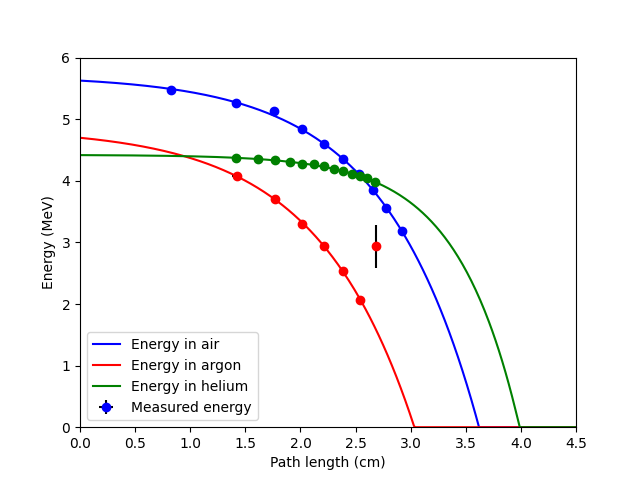
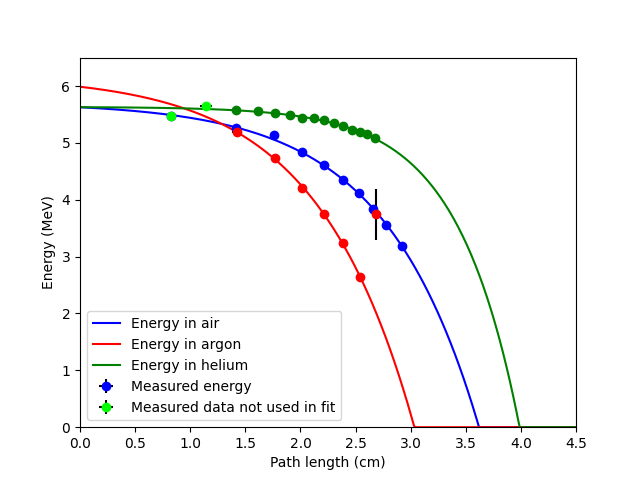
added omitted values and fixed conversion factor for argon and helium

diff --git a/src/alpha/alpha_ray.py b/src/alpha/alpha_ray.py
@@ -20,7 +20,6 @@ python_file_path = os.getcwd()
 
 class Measurement:
 
-    pressure_list = []
     path_length_list = []
     path_length_error = []
 
@@ -59,9 +58,8 @@ class Measurement:
             pressure_end: The pressure of the gas at the end of a measurement in mbar
         """
         # 1/1000 --> pressure to bar
-        self.pressure = self.pressure_mean(pressure_start, pressure_end)/1000 
-        self.pressure_error = self.pressure_err(pressure_start, pressure_end)/1000
-        Measurement.pressure_list.append(self.pressure)
+        self.pressure = self.pressure_mean(pressure_start, pressure_end) / 1000 
+        self.pressure_error = self.pressure_err(pressure_start, pressure_end) / 1000
         Measurement.path_length_list.append(Measurement.pressure_to_path_length(self.pressure))
         Measurement.path_length_error.append(Measurement.path_length_err(pressure=self.pressure, pressure_error=self.pressure_error))
 
@@ -82,7 +80,6 @@ class Measurement:
     def clear(cls):
         """Clears lists to get empty lists for the next gas
         """        
-        cls.pressure_list = []
         cls.path_length_list = []
         cls.path_length_error = []
 
@@ -232,7 +229,7 @@ class Measurement:
         plt.plot(cls.path_length_continuous, cls.energy_continuous, 'g', label=f'E(x) = c - a*b^x')
         plt.plot(cls.path_length_list, cls.result_energy.best_fit, 'r', label=f'Energy fit in measured range')
         plt.xlim(0,4.5)
-        plt.ylim(0,6)
+        plt.ylim(0,6.5)
         plt.xlabel('Path length (cm)')
         plt.ylabel('Energy (MeV)')
         plt.legend(loc='lower left')
@@ -381,8 +378,11 @@ class Measurement:
         plt.errorbar(cls.path_length_gas_data[1], cls.energy_gas_data[1], xerr=cls.path_length_gas_error[1], yerr=cls.energy_gas_error[1], fmt='ro', ecolor='k')
         plt.errorbar(cls.path_length_gas_data[2], cls.energy_gas_data[2], xerr=cls.path_length_gas_error[2], yerr=cls.energy_gas_error[2], fmt='go', ecolor='k')
 
+        # plot omitted data
+        plt.errorbar(cls.path_length_omit, cls.energy_omit, xerr=cls.path_length_error_omit, yerr=cls.energy_error_omit, linestyle='None', marker='o', c='lime', ecolor='black', label='Measured data not used in fit')  
+
         plt.xlim(0, 4.5)
-        plt.ylim(0, 6)
+        plt.ylim(0, 6.5)
         plt.xlabel("Path length (cm)")
         plt.ylabel("Energy (MeV)")
         plt.legend(loc='lower left')
@@ -407,9 +407,8 @@ class Measurement:
         # plot data points
         plt.errorbar(cls.path_length_gas_data[0], cls.stopping_power_gas_data[0], xerr=cls.path_length_gas_error[0] , fmt='bo', ecolor='k', label='Calculated stopping power of measured data')
         plt.errorbar(cls.path_length_gas_data[1], cls.stopping_power_gas_data[1], xerr=cls.path_length_gas_error[1] , fmt='ro', ecolor='k')
-        plt.errorbar(cls.path_length_gas_data[2], cls.stopping_power_gas_data[2], xerr=cls.path_length_gas_error[2] , fmt='go', ecolor='k')        
-
-
+        plt.errorbar(cls.path_length_gas_data[2], cls.stopping_power_gas_data[2], xerr=cls.path_length_gas_error[2] , fmt='go', ecolor='k')
+      
         plt.xlim(0, 4.5)
         plt.ylim(0, 10)
         plt.xlabel("Path length (cm)")
@@ -500,9 +499,11 @@ def measurement_argon():
     argon_start_list = [20, 98, 199, 299, 399, 499, 599, 699]
     argon_end_list = [22, 117, 215, 317, 417, 526, 627, 756]
 
-    # argon_vacuum = Measurement("meting 4- alfa bron argon 21 mbar.csv", end_point=1000, pressure_start = argon_start_list[0], pressure_end=argon_end_list[0])
-    # argon_vacuum.data_fit(start_expmu=0.01, start_gauss1_mu=0.15)
-    # # argon_vacuum.data_plot()
+    argon_vacuum = Measurement("meting 4- alfa bron argon 21 mbar.csv", end_point=1000, pressure_start = argon_start_list[0], pressure_end=argon_end_list[0])
+    argon_vacuum.data_fit(start_expmu=0.01, start_gauss1_mu=0.15)
+
+    # to calculate the conversion factor, but not use this data point in the energy fit
+    Measurement.clear()
 
     argon_100mbar = Measurement("meting 4- alfa bron argon 100 mbar.csv", end_point=1000, pressure_start = argon_start_list[1], pressure_end=argon_end_list[1])
     argon_100mbar.data_fit(start_expmu=0.01, start_gauss1_mu=0.13)
@@ -547,13 +548,21 @@ def measurement_helium():
     helium_start_list = [20, 49, 99, 149, 199, 249, 299, 349, 399, 449, 499, 549, 599, 649, 699]
     helium_end_list = [22, 64, 115, 166, 215, 267, 315, 367, 417, 470, 521, 581, 627, 677, 737]
 
-    # argon_vacuum = Measurement("meting 4- alfa bron argon 21 mbar.csv", end_point=1000, pressure_start = helium_start_list[0], pressure_end=helium_end_list[0])
-    # argon_vacuum.data_fit(start_expmu=0.01, start_gauss1_mu=0.15)
-    # # argon_vacuum.data_plot()
+    argon_vacuum = Measurement("meting 4- alfa bron argon 21 mbar.csv", end_point=1000, pressure_start = helium_start_list[0], pressure_end=helium_end_list[0])
+    argon_vacuum.data_fit(start_expmu=0.01, start_gauss1_mu=0.15)
+    # argon_vacuum.data_plot()
 
-    # helium_50mbar = Measurement("meting 5- alfa bron helium 50 mbar.csv", end_point=1000, pressure_start = helium_start_list[1], pressure_end=helium_end_list[1])
-    # helium_50mbar.data_fit(start_expmu=0.01, start_gauss1_mu=0.15)
-    # # helium_50mbar.data_plot()
+    helium_50mbar = Measurement("meting 5- alfa bron helium 50 mbar.csv", end_point=1000, pressure_start = helium_start_list[1], pressure_end=helium_end_list[1])
+    helium_50mbar.data_fit(start_expmu=0.01, start_gauss1_mu=0.15)
+    # helium_50mbar.data_plot()
+
+    # to show the two omited data points independantly and not use them in the energy fit
+    Measurement.energy_omit = Measurement.energy_list
+    Measurement.path_length_omit = Measurement.path_length_list
+    Measurement.energy_error_omit = Measurement.energy_error_list
+    Measurement.path_length_error_omit = Measurement.path_length_error
+
+    Measurement.clear()
 
     helium_100mbar = Measurement("meting 5- alfa bron helium 100 mbar.csv", end_point=1000, pressure_start = helium_start_list[2], pressure_end=helium_end_list[2])
     helium_100mbar.data_fit(start_expmu=0.01, start_gauss1_mu=0.15)
@@ -621,7 +630,7 @@ def run():
     measurement_air()
     measurement_argon()
     measurement_helium()
-
+    
     Measurement.energy_plot_all()
     Measurement.stopping_power_plot_all()
 
